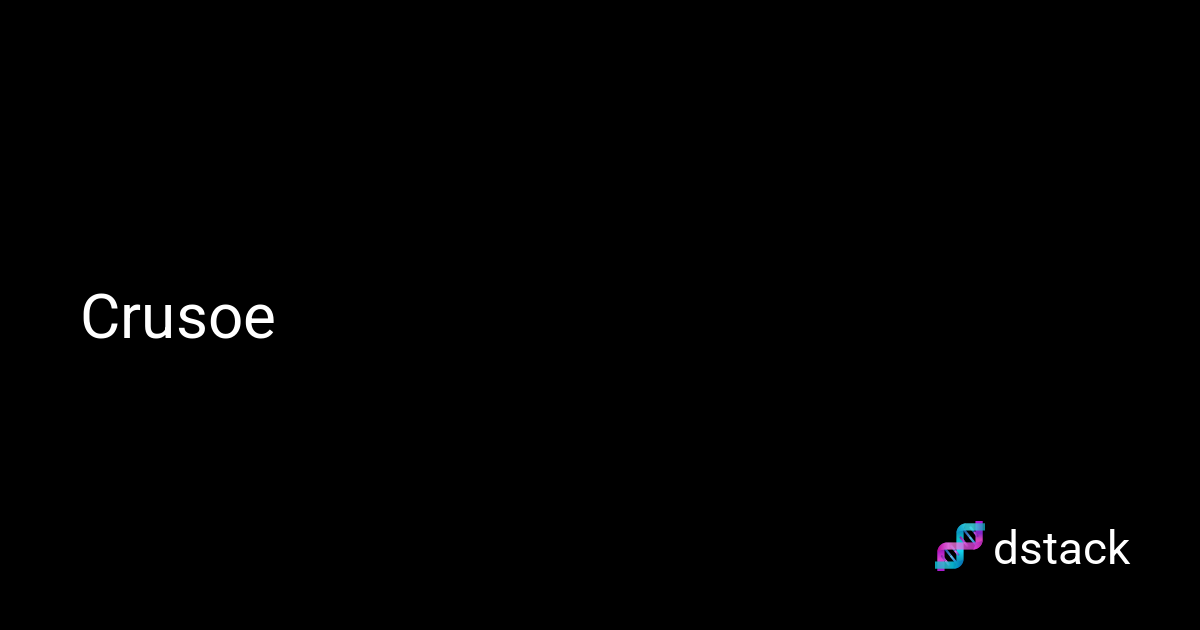
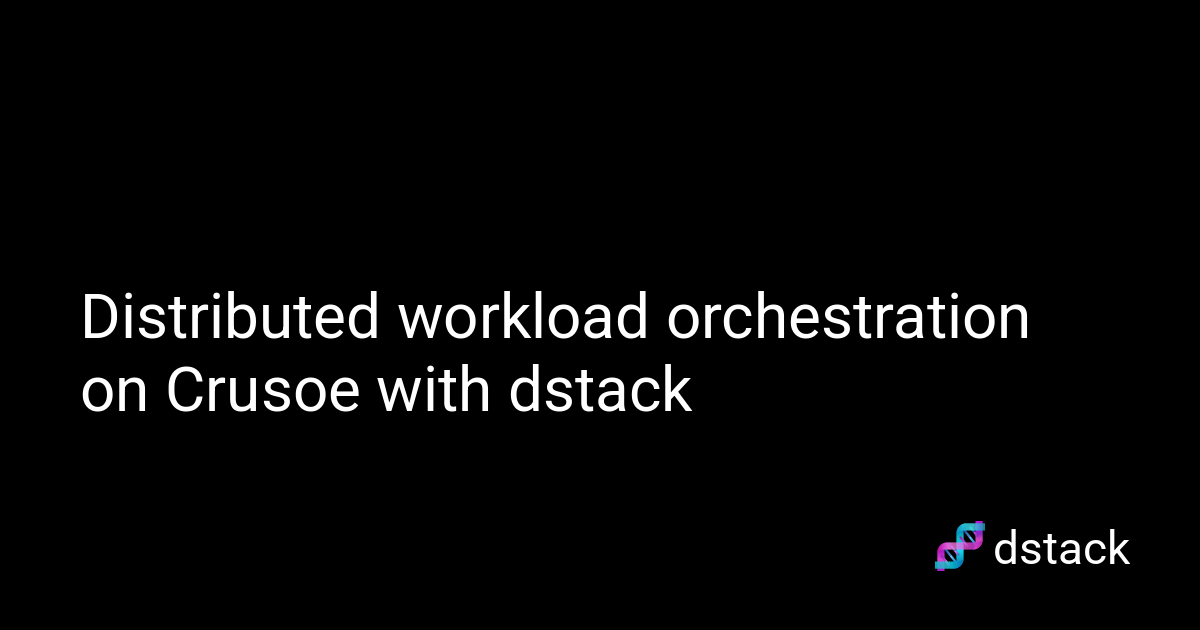
Deploying to gh-pages from @ dstackai/dstack@91a5cf8a9c8791d63601f467f670a33e07e9290e 🚀

Changed region(s): [[0.0617, 0.4524, 0.8633, 0.5429], [0.0617, 0.573, 0.5858, 0.6635]]

diff --git a/examples/clusters/crusoe/index.html b/examples/clusters/crusoe/index.html
@@ -29,7 +29,7 @@
     
     
       
-        <title>Crusoe - dstack</title>
+        <title>Distributed workload orchestration on Crusoe with dstack - dstack</title>
       
     
     
@@ -89,7 +89,7 @@
     
   
 <meta property="og:type" content="website" />
-<meta property="og:title" content="Crusoe - dstack" />
+<meta property="og:title" content="Distributed workload orchestration on Crusoe with dstack - dstack" />
 <meta property="og:description" content="dstack is an open-source control plane for running development, training, and inference jobs on GPUs - across hyperscalers, neoclouds, or on-prem." />
 <meta property="og:image" content="https://dstack.ai/assets/images/social/examples/clusters/crusoe/index.png" />
 <meta property="og:image:type" content="image/png" />
@@ -97,7 +97,7 @@
 <meta property="og:image:height" content="630" />
 <meta property="og:url" content="https://dstack.ai/examples/clusters/crusoe/" />
 <meta property="twitter:card" content="summary_large_image" />
-<meta property="twitter.title" content="Crusoe - dstack" />
+<meta property="twitter.title" content="Distributed workload orchestration on Crusoe with dstack - dstack" />
 <meta property="twitter:description" content="dstack is an open-source control plane for running development, training, and inference jobs on GPUs - across hyperscalers, neoclouds, or on-prem." />
 <meta property="twitter:image" content="https://dstack.ai/assets/images/social/examples/clusters/crusoe/index.png" />
 </head>
@@ -170,7 +170,7 @@ Support dstack with a ⭐ on
         <div class="md-header__topic" data-md-component="header-topic">
           <span class="md-ellipsis">
             
-              Crusoe
+              Distributed workload orchestration on Crusoe with dstack
             
           </span>
         </div>
@@ -4286,6 +4286,9 @@ nccl-tests<span class="w"> </span>provisioning<span class="w"> </span>completed<
 
 
 
+
+  
+  
 
 
 
